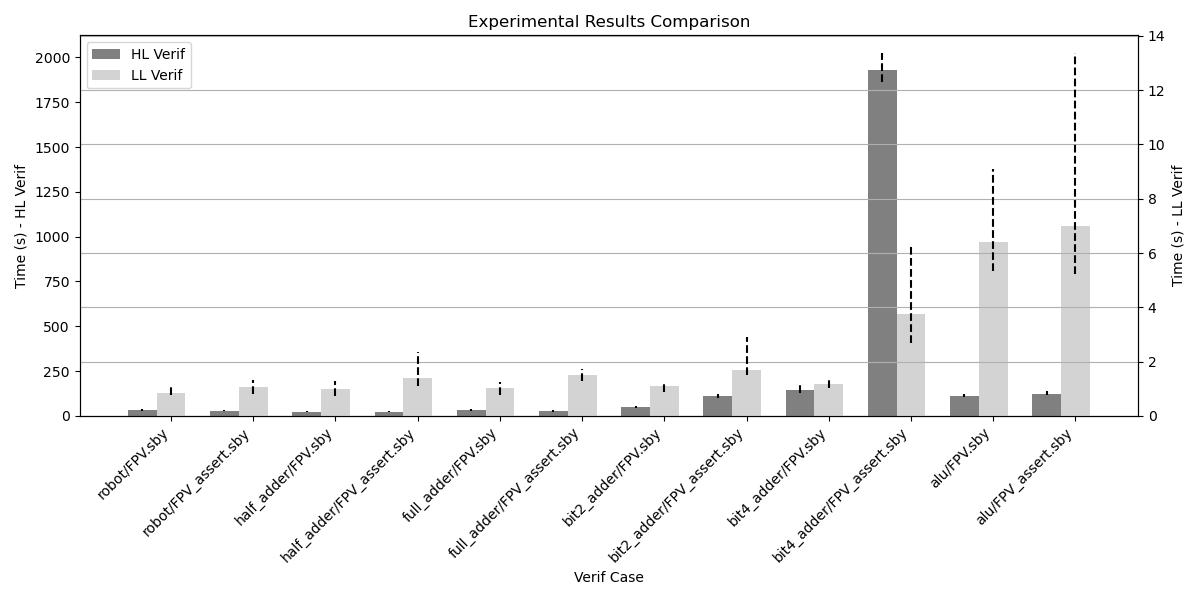
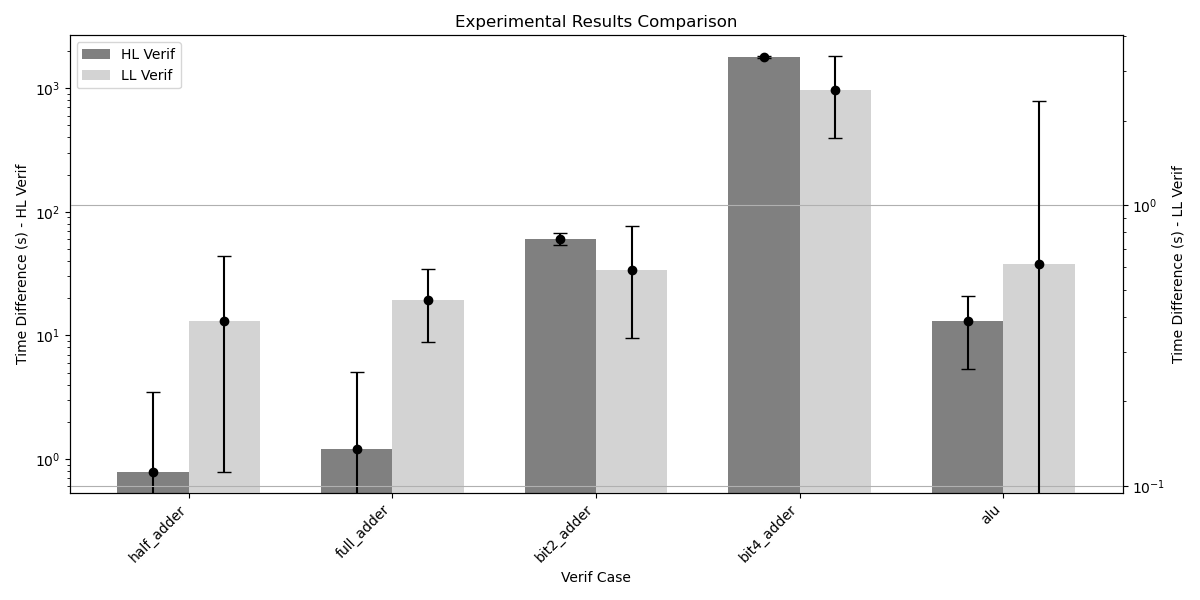
new updates

diff --git a/src/plot_results.py b/src/plot_results.py
@@ -1,61 +1,55 @@
 import matplotlib.pyplot as plt
 import numpy as np
-import statistics
 
 # Configuration
-results_files = [
-    "verif_vercors/results.txt",
-    "verif_sby/results.txt"
-]  # List of result files
+statistics_files = [
+    "verif_vercors/output_statistics.txt",  # First input statistics file
+    "verif_sby/output_statistics.txt"       # Second input statistics file
+]
 file_labels = [
     "HL Verif",  # Legend label for the first dataset
     "LL Verif"   # Legend label for the second dataset
-]  # Simplified labels for each dataset
+]
 plot_title = "Experimental Results Comparison"  # Title of the plot
 output_image = "performance_metrics_comparison.png"  # Output image file name
 add_trendline = False  # Set to True to add a trendline
 
-# Read results from the file
-def read_results(file_path):
-    statistics_data = []
+# Function to read the statistics data from the file
+def read_statistics(file_path):
+    """Reads the statistics from the given file and returns relevant data."""
+    test_names = []
+    avg_times = []
+    std_devs = []
     with open(file_path, 'r') as file:
         lines = file.readlines()
-        i = 0
-        while i < len(lines):
-            if lines[i].startswith("Testing"):
-                test_name = lines[i].split()[1].replace(":", "")
-                i += 1
-                elapsed_times = []
-                while i < len(lines) and lines[i].strip() and not lines[i].startswith("Testing"):
-                    elapsed_times.append(float(lines[i].strip()))
-                    i += 1
-                if elapsed_times:
-                    min_time = min(elapsed_times)
-                    max_time = max(elapsed_times)
-                    avg_time = statistics.mean(elapsed_times)
-                    std_dev_time = statistics.stdev(elapsed_times) if len(elapsed_times) > 1 else 0
-                    statistics_data.append((test_name, min_time, max_time, avg_time, std_dev_time))
-            else:
-                i += 1
-    return statistics_data
+        for line in lines[2:]:  # Skip the header
+            if line.strip():  # Skip empty lines
+                parts = line.split()
+                test_name = parts[0]
+                avg_time = abs(float(parts[5]))  # 'Difference Avg' (ensure positive values)
+                std_dev = float(parts[6])   # 'Combined Std Dev'
+                
+                test_names.append(test_name)
+                avg_times.append(avg_time)
+                std_devs.append(std_dev)
+    return test_names, avg_times, std_devs
 
-# Plot data from multiple files
-def plot_results(results_data, file_labels, plot_title, output_image, add_trendline):
+# Function to plot the results
+def plot_results(statistics_data, file_labels, plot_title, output_image, add_trendline):
     fig, ax1 = plt.subplots(figsize=(12, 6))
 
     bar_width = 0.35  # Width of the bars
     offset = bar_width / 2  # Offset to place bars side by side
 
     # Plot the first dataset on the primary Y-axis
-    test_names1, min_times1, max_times1, avg_times1, _ = zip(*results_data[0])
+    test_names1, avg_times1, std_devs1 = statistics_data[0]
     x1 = np.arange(len(test_names1))  # Positions for the bars
 
     # Plot the average bars for the first dataset
     bars_avg1 = ax1.bar(x1 - offset, avg_times1, bar_width, label=file_labels[0], color='gray')
 
-    # Add the variation between min and max for the first dataset
-    for i in range(len(x1)):
-        ax1.vlines(x1[i] - offset, min_times1[i], max_times1[i], color='black', linestyle='dashed')
+    # Add the standard deviation as error bars
+    ax1.errorbar(x1 - offset, avg_times1, yerr=std_devs1, fmt='o', color='black', capsize=5)
 
     # Optional trendline for the first dataset
     if add_trendline:
@@ -67,15 +61,14 @@ def plot_results(results_data, file_labels, plot_title, output_image, add_trendl
     ax2 = ax1.twinx()
 
     # Plot the second dataset on the secondary Y-axis
-    test_names2, min_times2, max_times2, avg_times2, _ = zip(*results_data[1])
+    test_names2, avg_times2, std_devs2 = statistics_data[1]
     x2 = np.arange(len(test_names2))  # Positions for the bars
 
     # Plot the average bars for the second dataset
     bars_avg2 = ax2.bar(x2 + offset, avg_times2, bar_width, label=file_labels[1], color='lightgray')
 
-    # Add the variation between min and max for the second dataset
-    for i in range(len(x2)):
-        ax2.vlines(x2[i] + offset, min_times2[i], max_times2[i], color='black', linestyle='dashed')
+    # Add the standard deviation as error bars
+    ax2.errorbar(x2 + offset, avg_times2, yerr=std_devs2, fmt='o', color='black', capsize=5)
 
     # Optional trendline for the second dataset
     if add_trendline:
@@ -89,16 +82,14 @@ def plot_results(results_data, file_labels, plot_title, output_image, add_trendl
     ax2.set_ylabel('Time (s) - LL Verif')
     ax1.set_title(plot_title)
 
-    # Combine x-ticks and labels for both datasets
-    combined_x = np.concatenate([x1 - offset, x2 + offset])
-    combined_labels = test_names1 + test_names2
+    # Set y-axis to logarithmic scale for exponential scaling
+    ax1.set_yscale('log')
+    ax2.set_yscale('log')
 
     # Set x-ticks and labels for primary and secondary axes
-    ax1.set_xticks(x1)  # Set ticks only where bars are placed
+    ax1.set_xticks(x1)
     ax1.set_xticklabels(test_names1, rotation=45, ha='right')
-
-    # Add secondary x-ticks for the second dataset
-    ax2.set_xticks(x2 + offset)
+    ax2.set_xticks(x2)
     ax2.set_xticklabels(test_names2, rotation=45, ha='right')
 
     # Combine legends from both axes
@@ -112,8 +103,8 @@ def plot_results(results_data, file_labels, plot_title, output_image, add_trendl
     plt.close()
     print(f"Chart saved as {output_image}")
 
-# Read the results data from each file
-results_data = [read_results(file) for file in results_files]
+# Read the statistics data from each file
+statistics_data = [read_statistics(file) for file in statistics_files]
 
 # Plot the results
-plot_results(results_data, file_labels, plot_title, output_image, add_trendline)
+plot_results(statistics_data, file_labels, plot_title, output_image, add_trendline)
